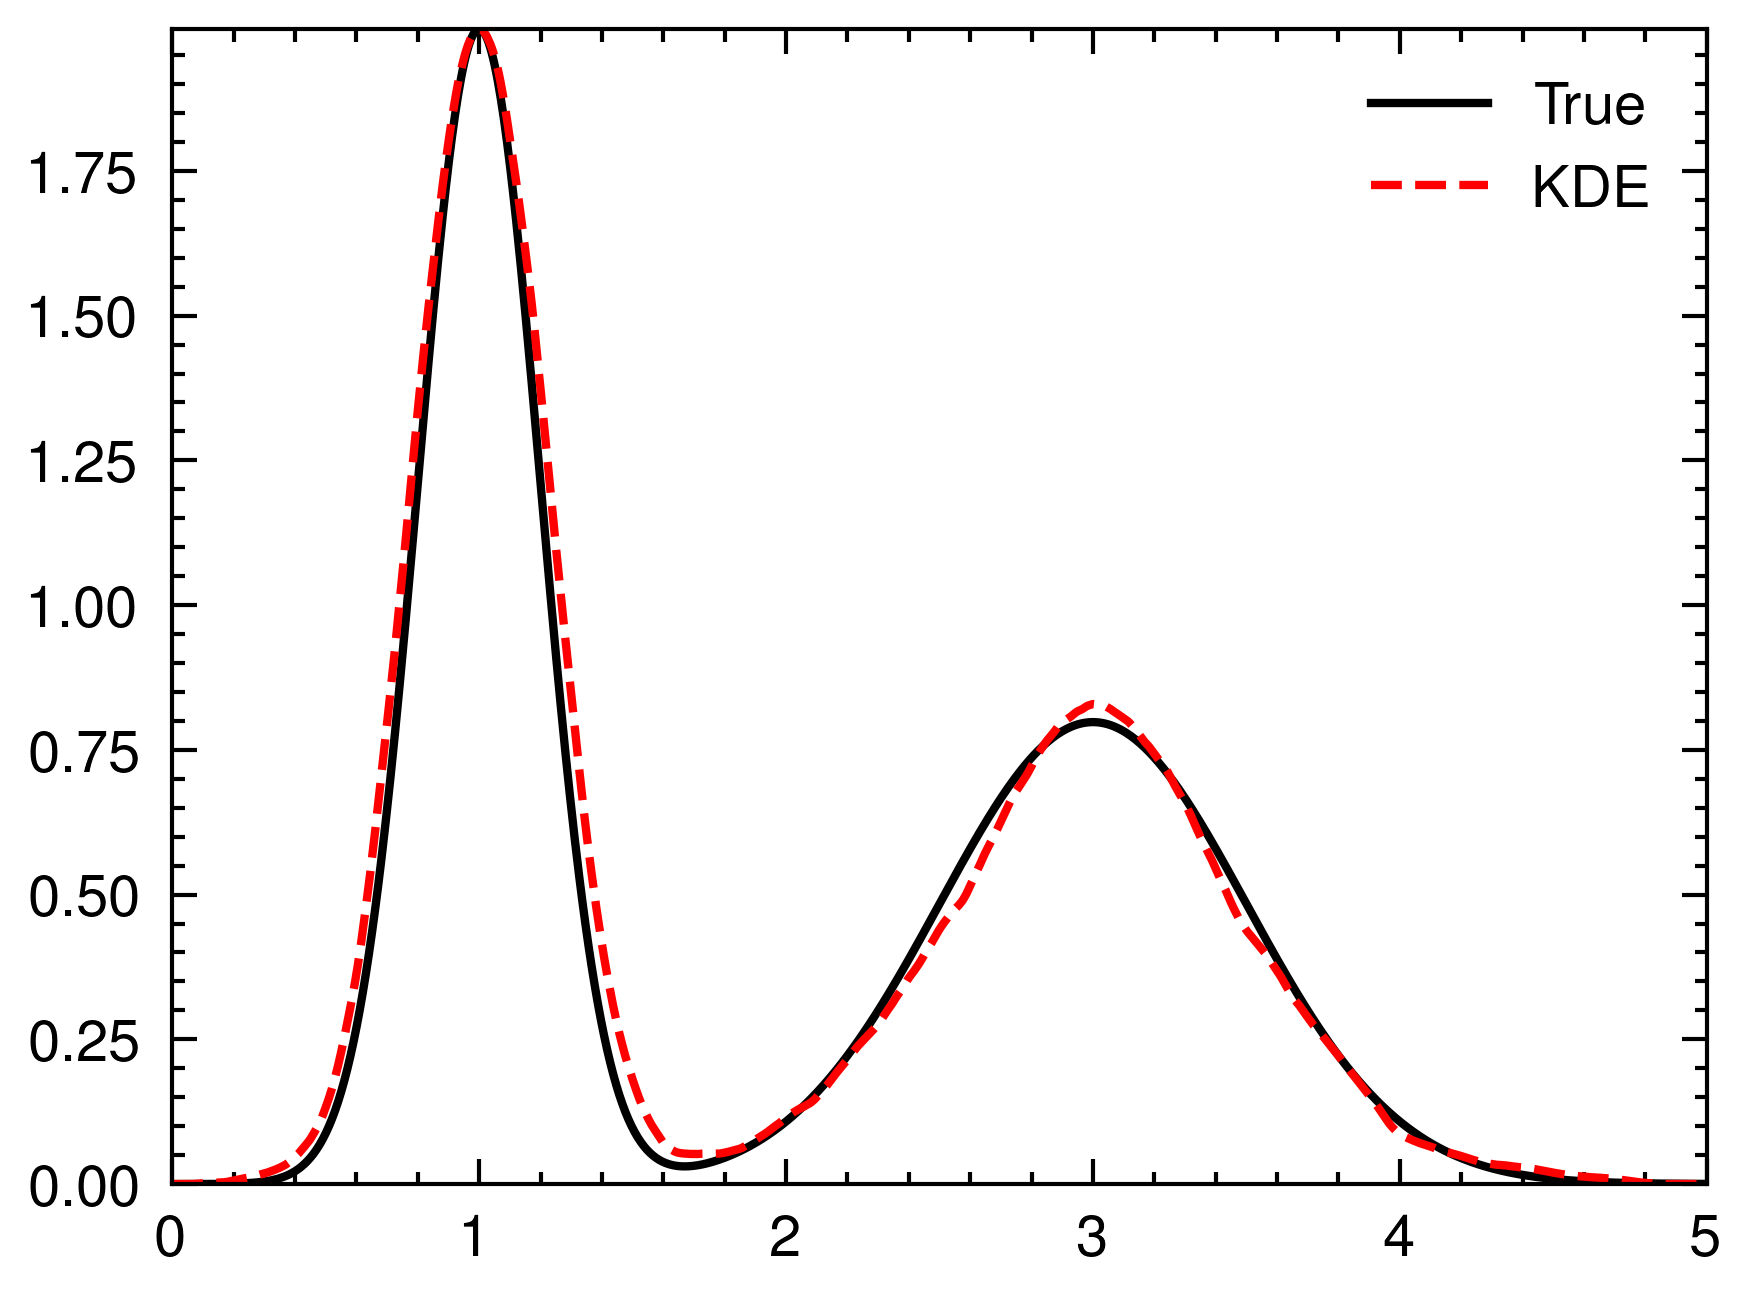
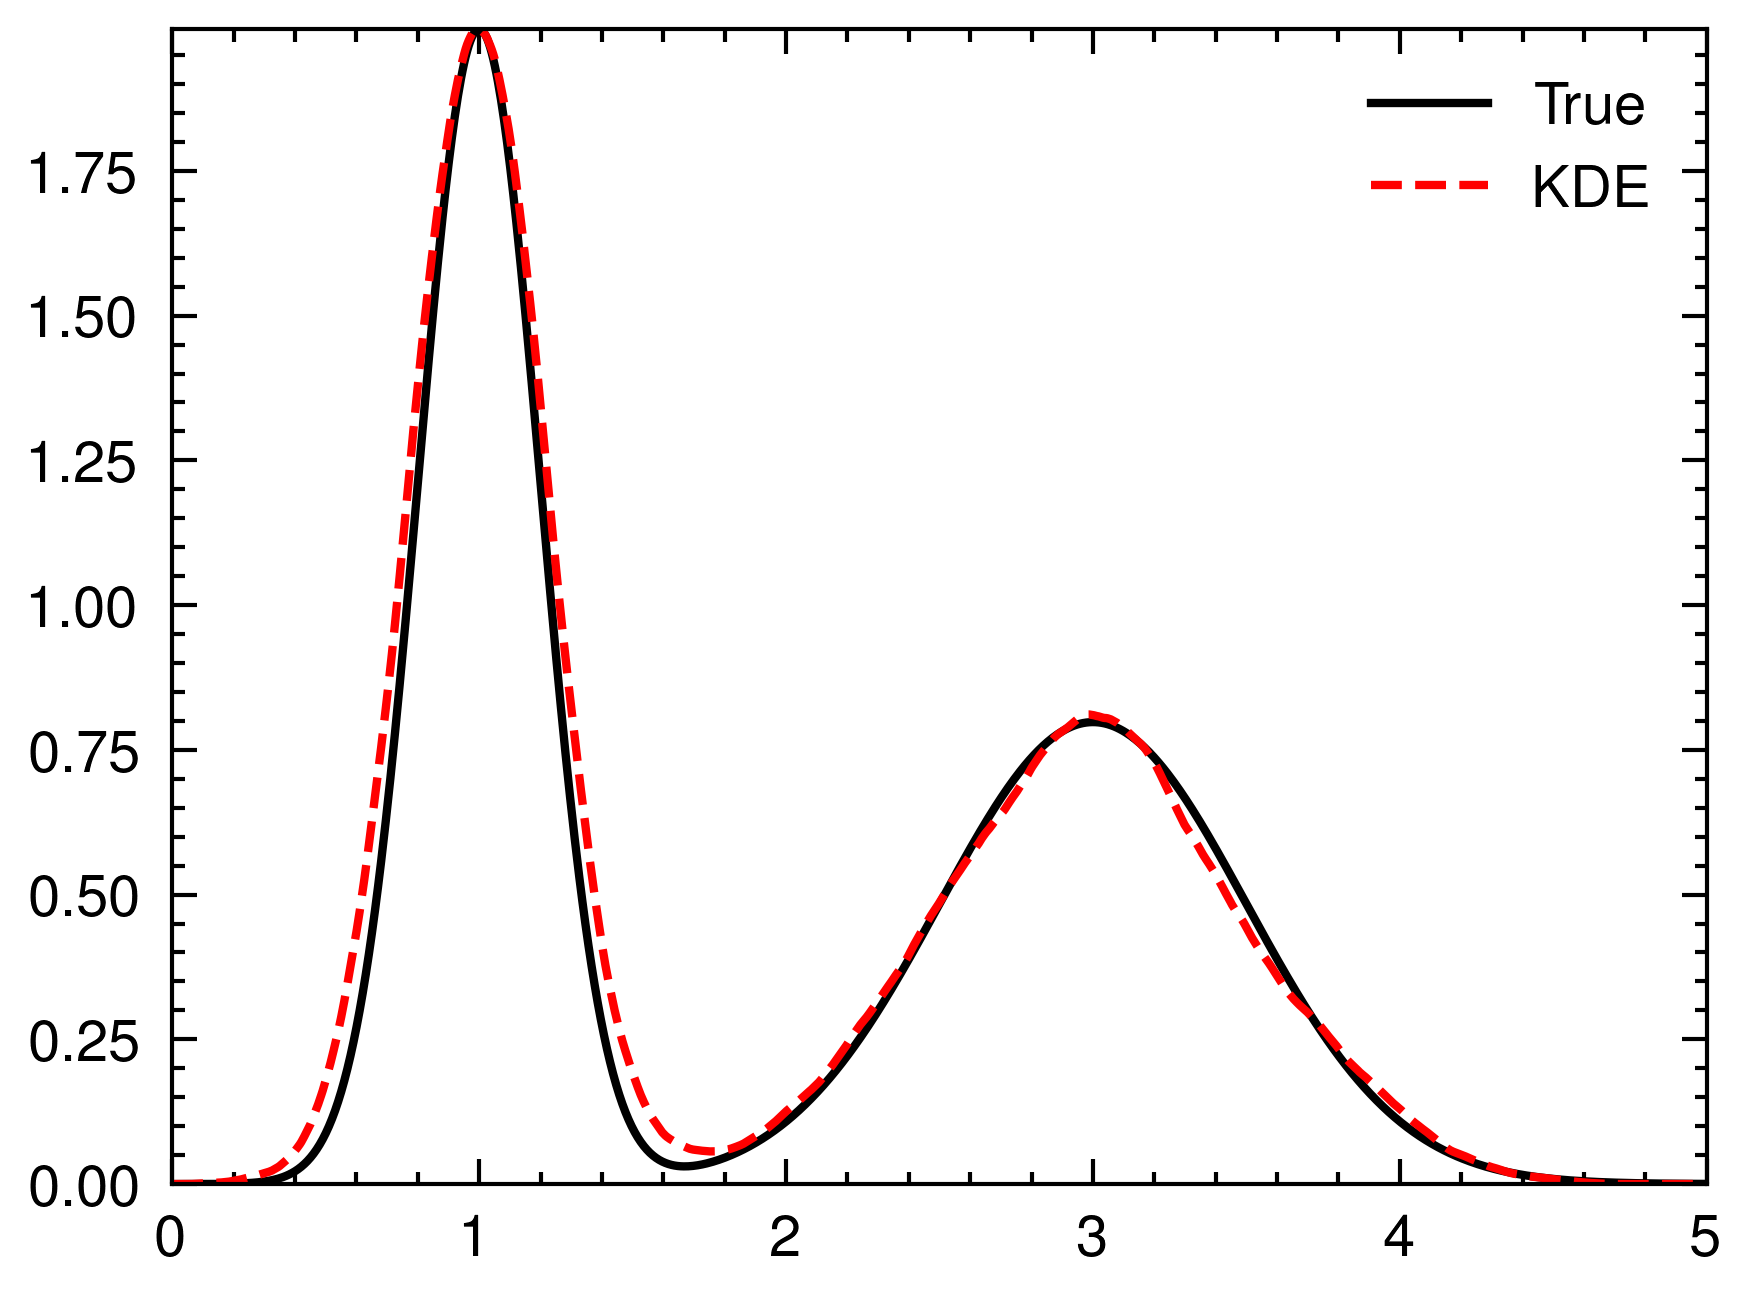
Add silverman & optuna

diff --git a/src/main.rs b/src/main.rs
@@ -2,18 +2,24 @@ use rayon::prelude::*;
 use peroxide::fuga::*;
 
 fn main() -> Result<(), Box<dyn std::error::Error>> {
+    let left_peak = 1.0;
+    let right_peak = 3.0;
+    let left_most = 0.0;
+    let right_most = 5.0;
+
     // Data generation - Gaussian mixtures
-    let n_1 = Normal(1.0, 0.2);
-    let n_2 = Normal(3.0, 0.5);
+    let n_1 = Normal(left_peak, 0.2);
+    let n_2 = Normal(right_peak, 0.5);
     let true_pdf = |x: f64| n_1.pdf(x) + n_2.pdf(x);
     let data = concat(&n_1.sample(800), &n_2.sample(700));
 
     // Kernel Density Estimation
-    let x = linspace(0, 5, 1000);
+    let x = linspace(left_most, right_most, 1000);
     let y = x.fmap(true_pdf);
-    let bandwidth = scott_rule(&data);
+    let kernel = Kernel::Epanechnikov;
+    let bandwidth = silverman_bandwidth(&data);
     bandwidth.print();
-    let kde = kernel_density_estimation(&data, bandwidth, Kernel::Epanechnikov, &x);
+    let kde = kernel_density_estimation(&data, bandwidth, kernel, &x);
     let scale_factor = y.max() / kde.max();
     let kde = kde.fmap(|x| x * scale_factor);
 
@@ -29,14 +35,14 @@ fn main() -> Result<(), Box<dyn std::error::Error>> {
     };
 
     // Piecewise Rejection Sampling
-    let samples = prs(f, 10000, (0.0, 5.0), 100, 1e-6);
+    let samples = prs(f, 10000, (left_most, right_most), 100, 1e-6);
 
     // Histogram from samples
-    let x_bin = linspace(0, 5, 100);
+    let x_bin = linspace(left_most, right_most, 100);
     let mut n_bin = vec![0f64; x_bin.len()];
     samples.iter()
         .for_each(|x| {
-            let bin_idx = (x - 0.0) / (5.0 - 0.0) * (x_bin.len() as f64);
+            let bin_idx = (x - left_most) / (right_most - left_most) * (x_bin.len() as f64);
             n_bin[bin_idx as usize] += 1.0;
         });
     let y_bin = x_bin.fmap(true_pdf);
@@ -143,9 +149,25 @@ fn kernel_density_estimation(data: &[f64], bandwidth: f64, kernel: Kernel, domai
 }
 
 /// Scott's rule for estimating bandwidth
+#[allow(dead_code)]
 fn scott_rule(data: &[f64]) -> f64 {
     let data = data.to_vec();
     let n = data.len() as f64;
     let std = data.sd();
-    std / n.powf(0.2)
+    1.06 * std * n.powf(-0.2)
+}
+
+/// Silverman's rule of thumb for Gaussian kernel
+#[allow(dead_code)]
+fn silverman_bandwidth(data: &[f64]) -> f64 {
+    let data = data.to_vec();
+    let n = data.len() as f64;
+    let sigma = data.sd();
+    (4.0 * sigma.powi(5) / (3.0 * n)).powf(1.0 / 5.0)
+}
+
+/// Optuna's bandwidth
+#[allow(dead_code)]
+fn optuna_bandwidth(data: &[f64], left: f64, right: f64) -> f64 {
+    (right - left) / 5f64 * (data.len() as f64).powf(-0.2)
 }
